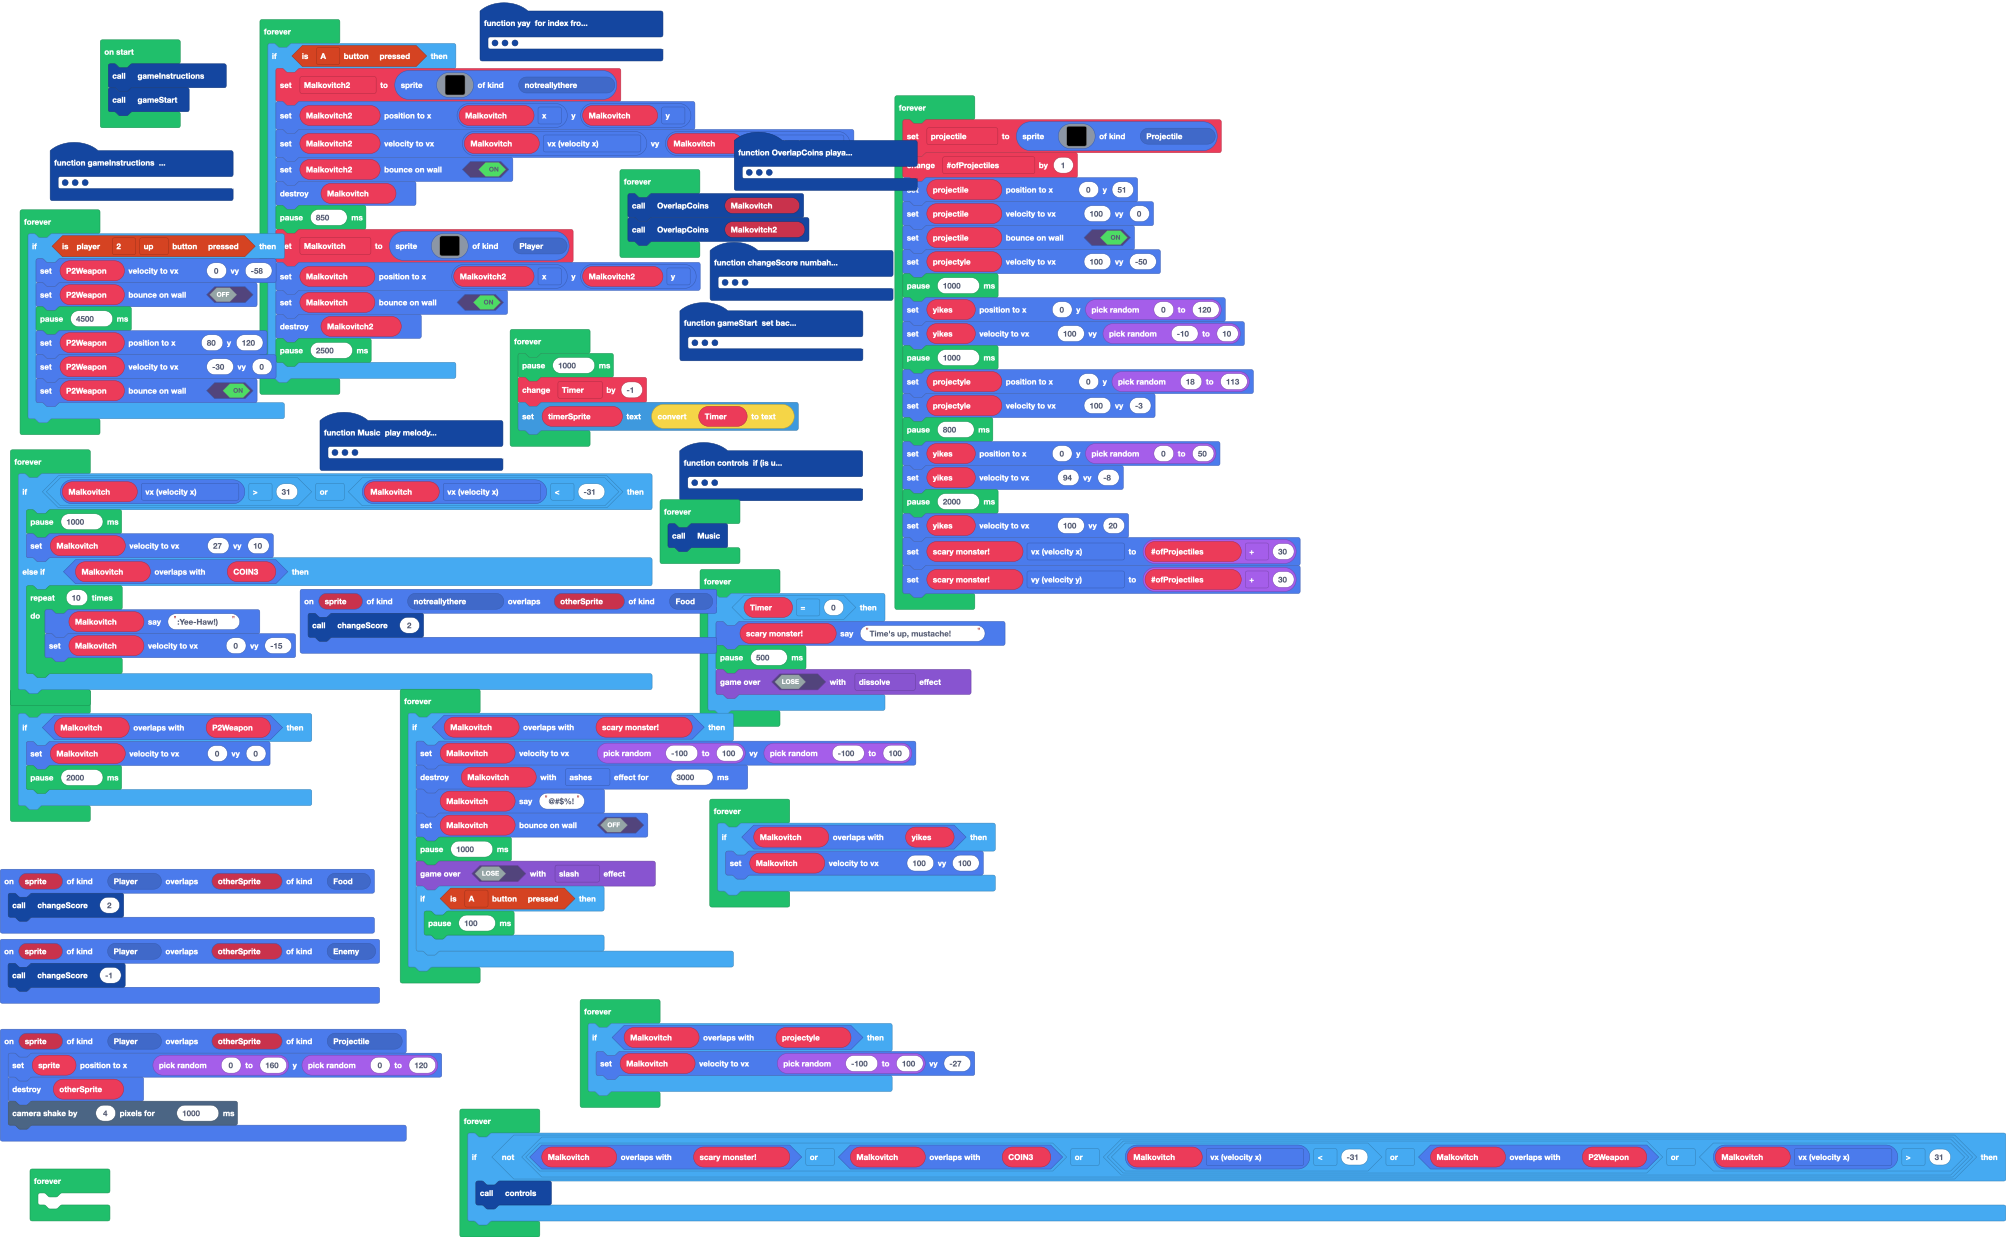
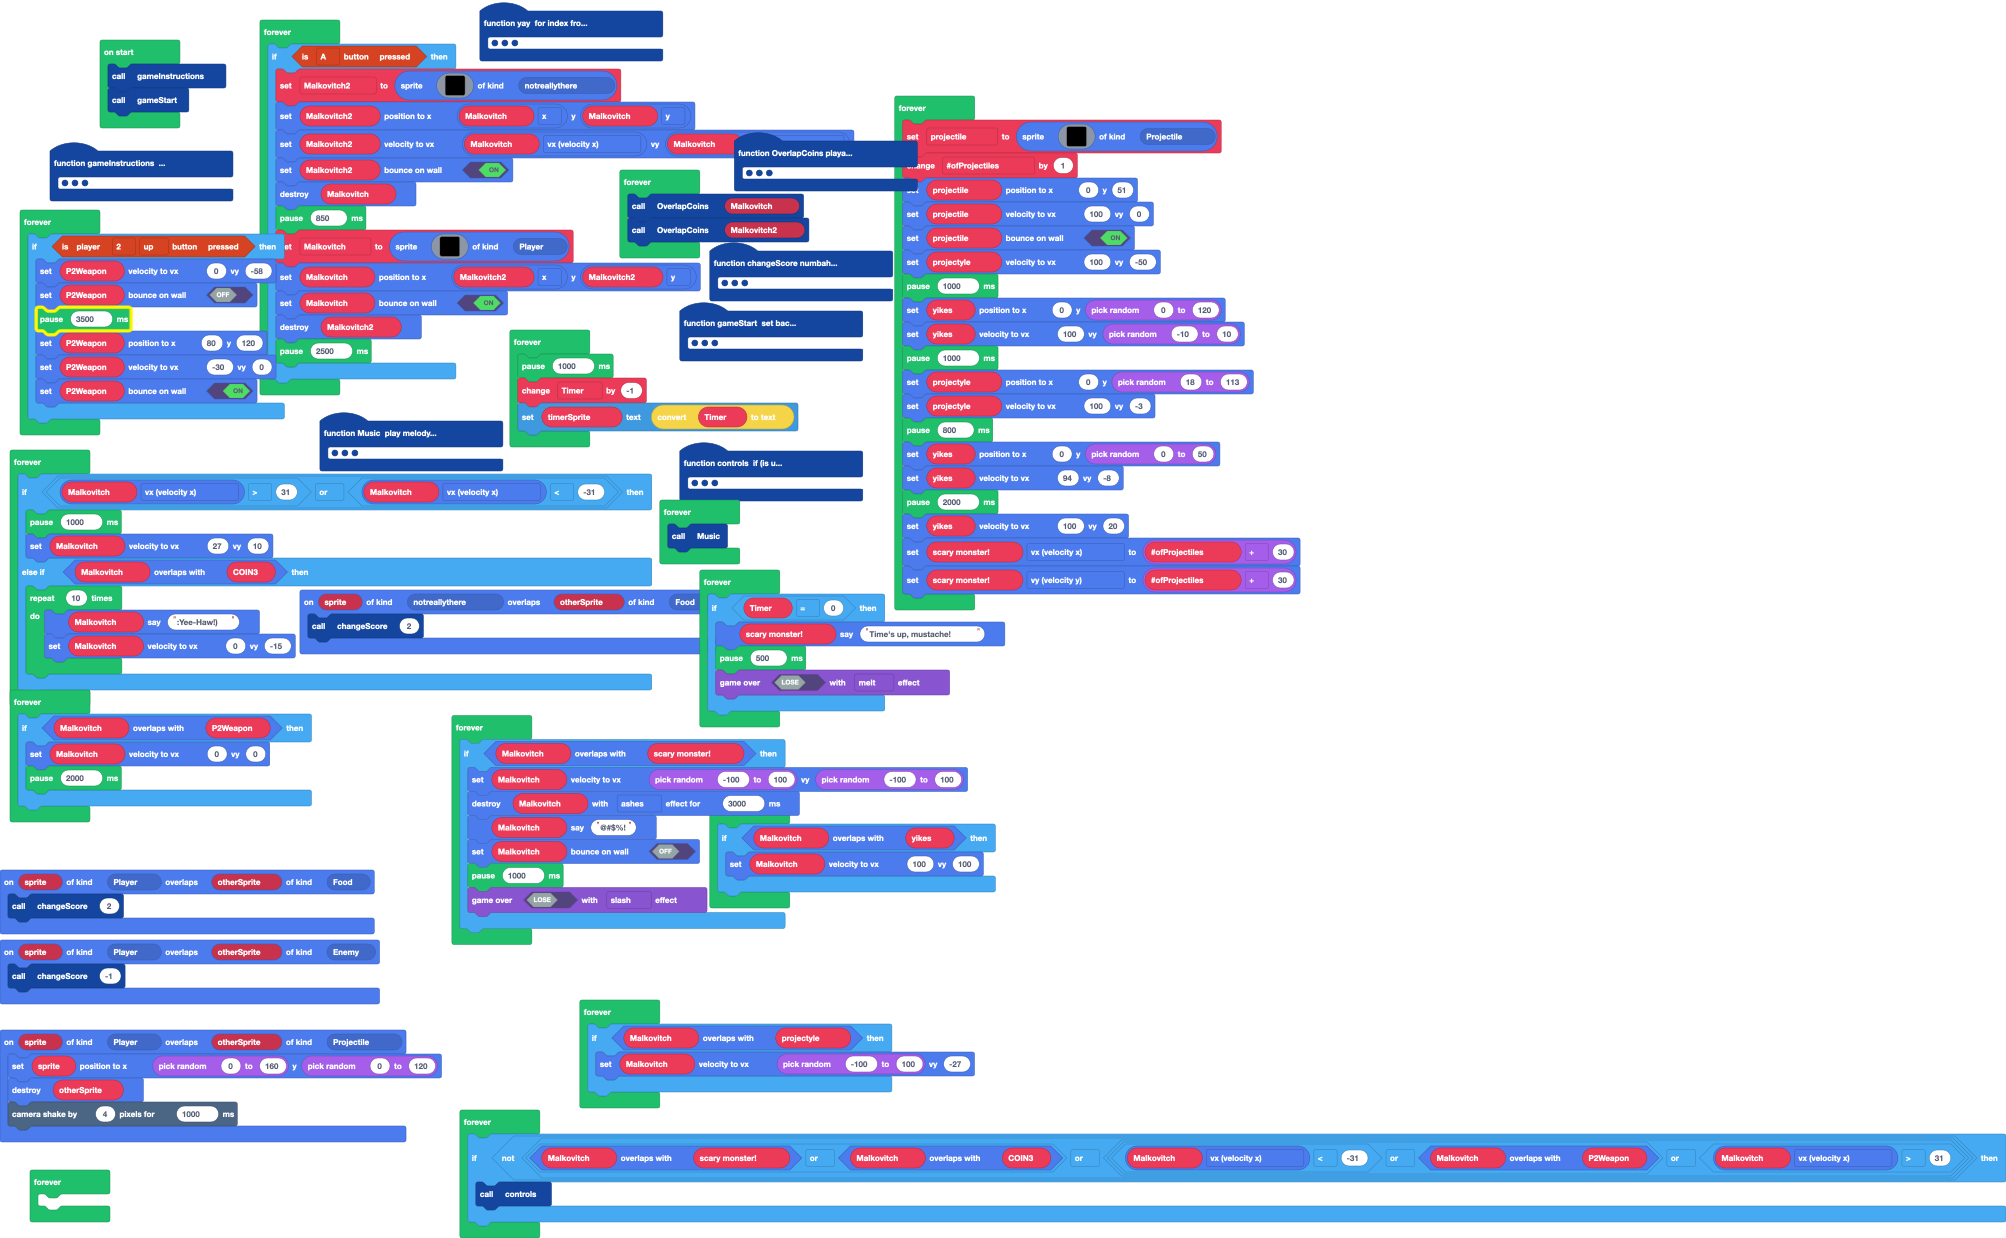
Update main.blocks, main.ts

diff --git a/main.ts b/main.ts
@@ -1507,7 +1507,7 @@ forever(function () {
     if (controller.player2.isPressed(ControllerButton.Up)) {
         P2Weapon.setVelocity(0, -58)
         P2Weapon.setBounceOnWall(false)
-        pause(4500)
+        pause(3500)
         P2Weapon.setPosition(80, 120)
         P2Weapon.setVelocity(-30, 0)
         P2Weapon.setBounceOnWall(true)
@@ -1536,7 +1536,7 @@ forever(function () {
     if (Timer == 0) {
         scary_monster.sayText("Time's up, mustache!")
         pause(500)
-        game.over(false, effects.dissolve)
+        game.over(false, effects.melt)
     }
 })
 forever(function () {
@@ -1553,9 +1553,6 @@ forever(function () {
         Malkovitch.setBounceOnWall(false)
         pause(1000)
         game.over(false, effects.slash)
-        if (controller.A.isPressed()) {
-            pause(100)
-        }
     }
 })
 forever(function () {
